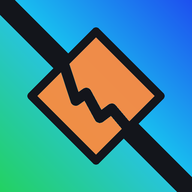
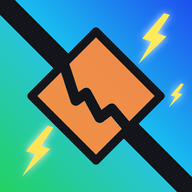
アイコンの背景に雷を追加
Claude-Session: https://claude.ai/code/session_01FQJ1XiZER3tAd8K9bpz1Z8

Changed region(s): [[0.0938, 0.625, 0.3125, 0.9375], [0.7188, 0.0312, 0.9062, 0.3438], [0.875, 0.4062, 0.9688, 0.5625]]

diff --git a/sw.js b/sw.js
@@ -1,7 +1,7 @@
 // Service worker for installing the site as an app.
 // Always asks the network first, so an open app gets the newest version of the site; the saved copy is used only offline.
 // Results themselves come live from Firebase and are not touched here.
-const CACHE = "compass3on3-v2";
+const CACHE = "compass3on3-v3";
 const SHELL = ["./", "./index.html", "./reader.js", "./firebase-config.js", "./manifest.webmanifest", "./icons/icon-192.png", "./icons/icon-512.png"];
 self.addEventListener("install", e => { e.waitUntil(caches.open(CACHE).then(c => c.addAll(SHELL)).catch(() => {})); self.skipWaiting(); });
 self.addEventListener("activate", e => { e.waitUntil(caches.keys().then(ks => Promise.all(ks.filter(k => k !== CACHE).map(k => caches.delete(k)))).then(() => self.clients.claim())); });
